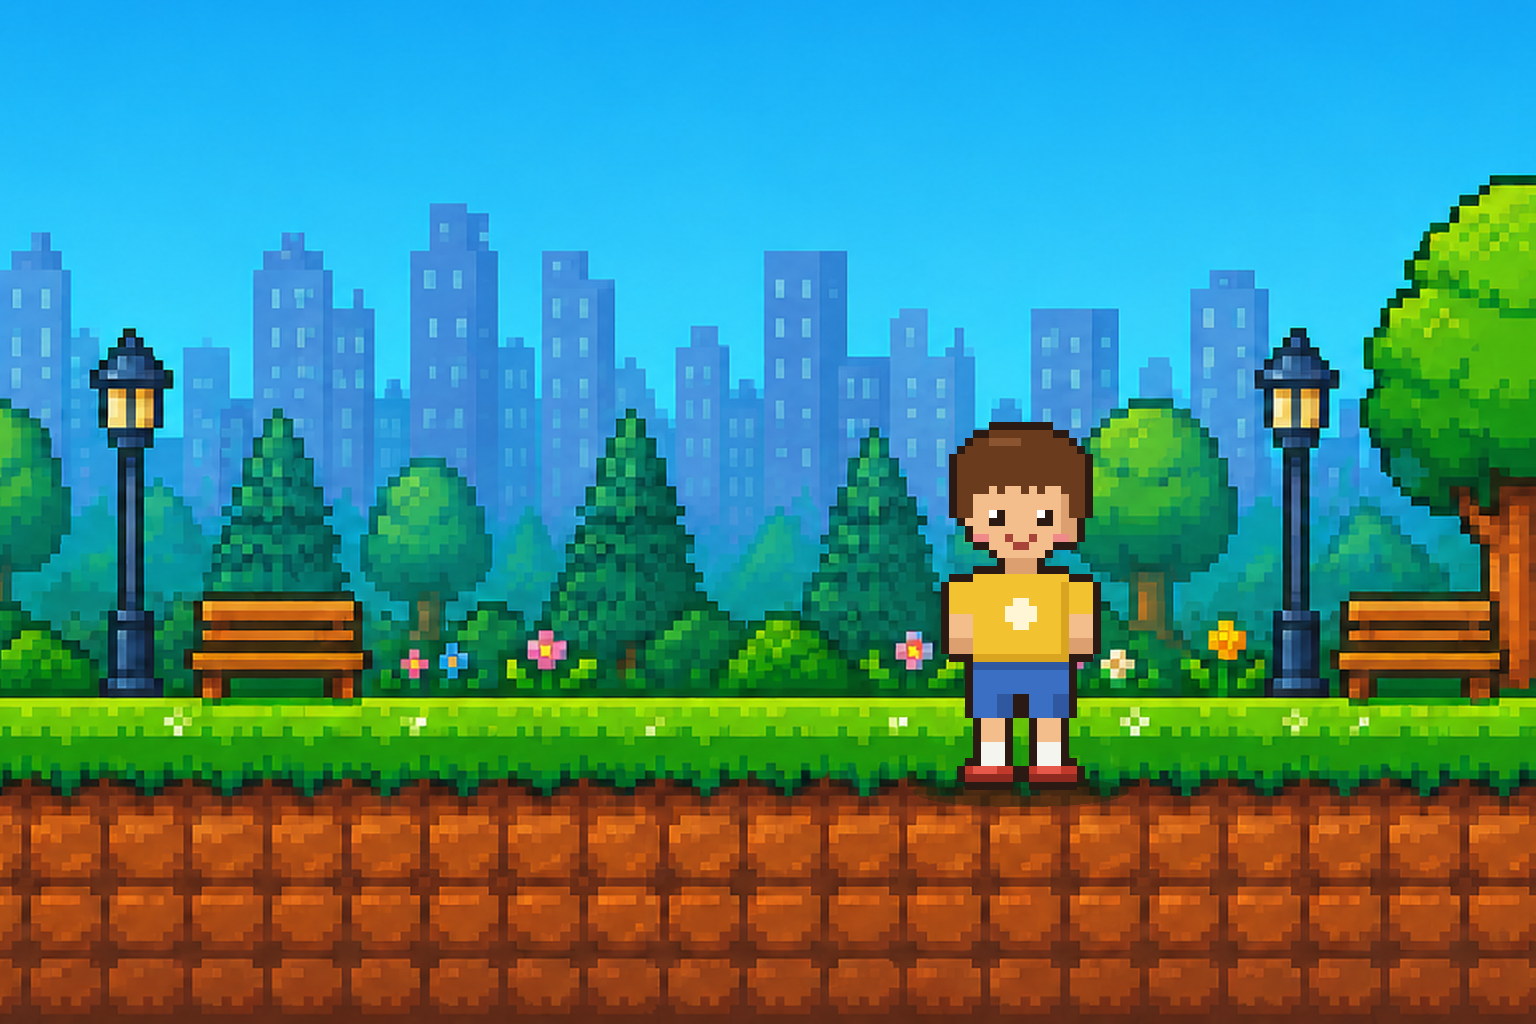
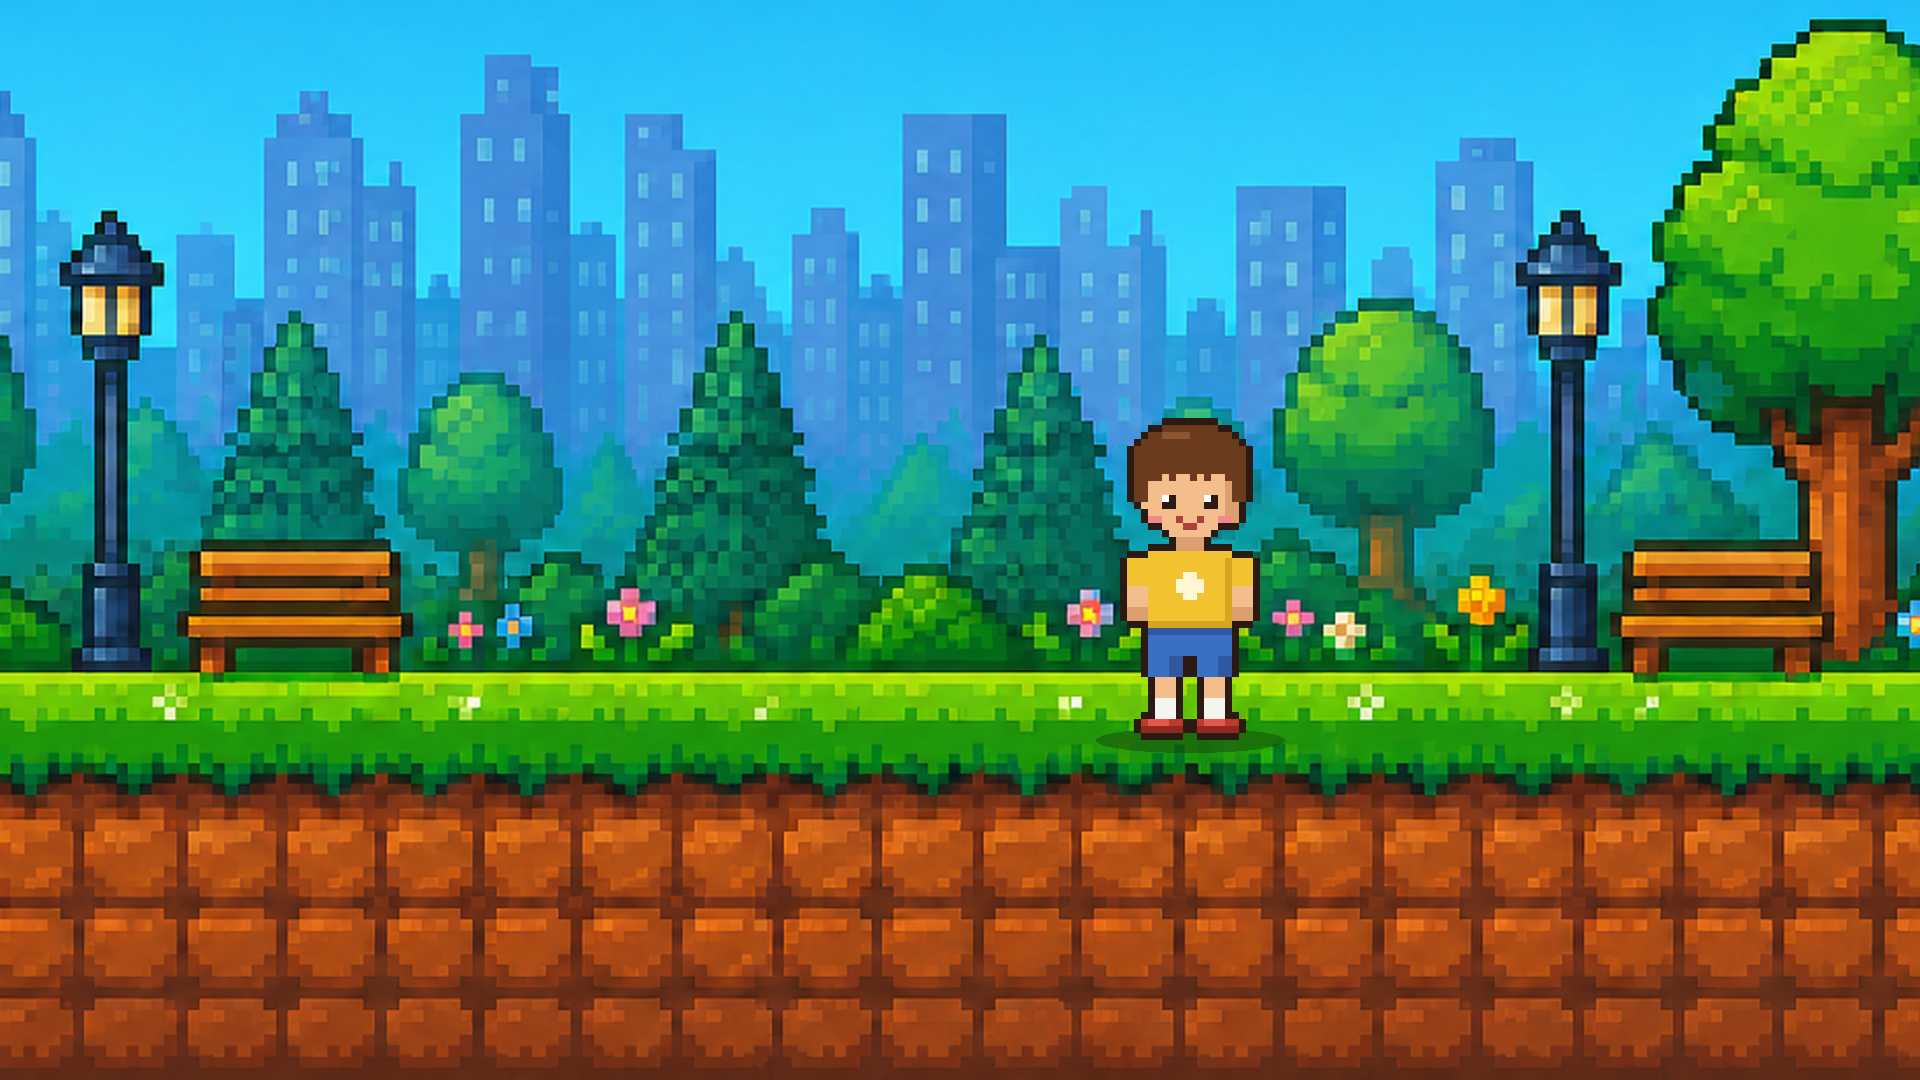
Corrige enquadramento no zoom e contorno azul dos botões
Claude-Session: https://claude.ai/code/session_01WKfJjJ1htWQQgMRsVUWEmY

diff --git a/css/minigames.css b/css/minigames.css
@@ -48,8 +48,8 @@
     display: none;
     width: 38%;
     aspect-ratio: 1400 / 686;
-    right: 3%;
-    top: 6%;
+    right: 6%;
+    top: 3%;
     z-index: 20;
 }
 
@@ -95,7 +95,16 @@
     filter: brightness(1.1);
 }
 
-.btn-img:focus-visible,
+/* Botões que são imagem têm bastante espaço transparente em volta, então nada de contorno
+   quadrado: quando focados (teclado), a própria imagem só fica um pouco mais clara. */
+.btn-img:focus {
+    outline: none;
+}
+
+.btn-img:focus-visible img {
+    filter: brightness(1.15) drop-shadow(0 0 0.3cqw #ffffff);
+}
+
 .opcao:focus-visible,
 .carta:focus-visible {
     outline: 0.4cqw solid #1d6fd1;

diff --git a/js/common.js b/js/common.js
@@ -187,9 +187,9 @@ function iniciarFase(config) {
 
             // O Totó fica de frente pro personagem, com as patas no mesmo chão dele
             dog.style.transform = 'scaleX(1)';
-            dog.style.width = '28%';
-            dog.style.bottom = '14.5%';
-            dog.style.left = '16%';
+            dog.style.width = '25%';
+            dog.style.bottom = '22.5%';
+            dog.style.left = '14%';
 
             iniciarDialogo(config.falasInicio, () => {
                 config.iniciarJogo(terminarJogo);
